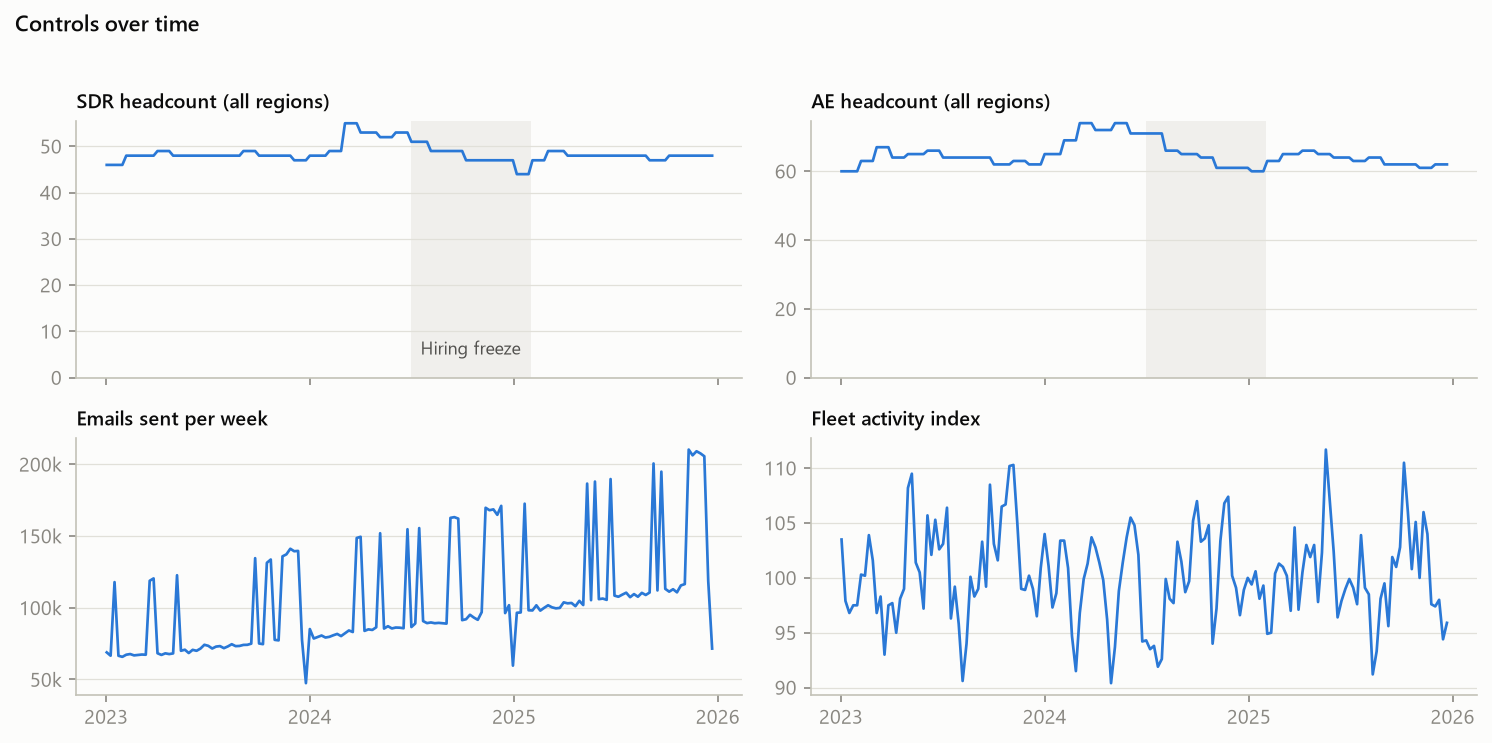
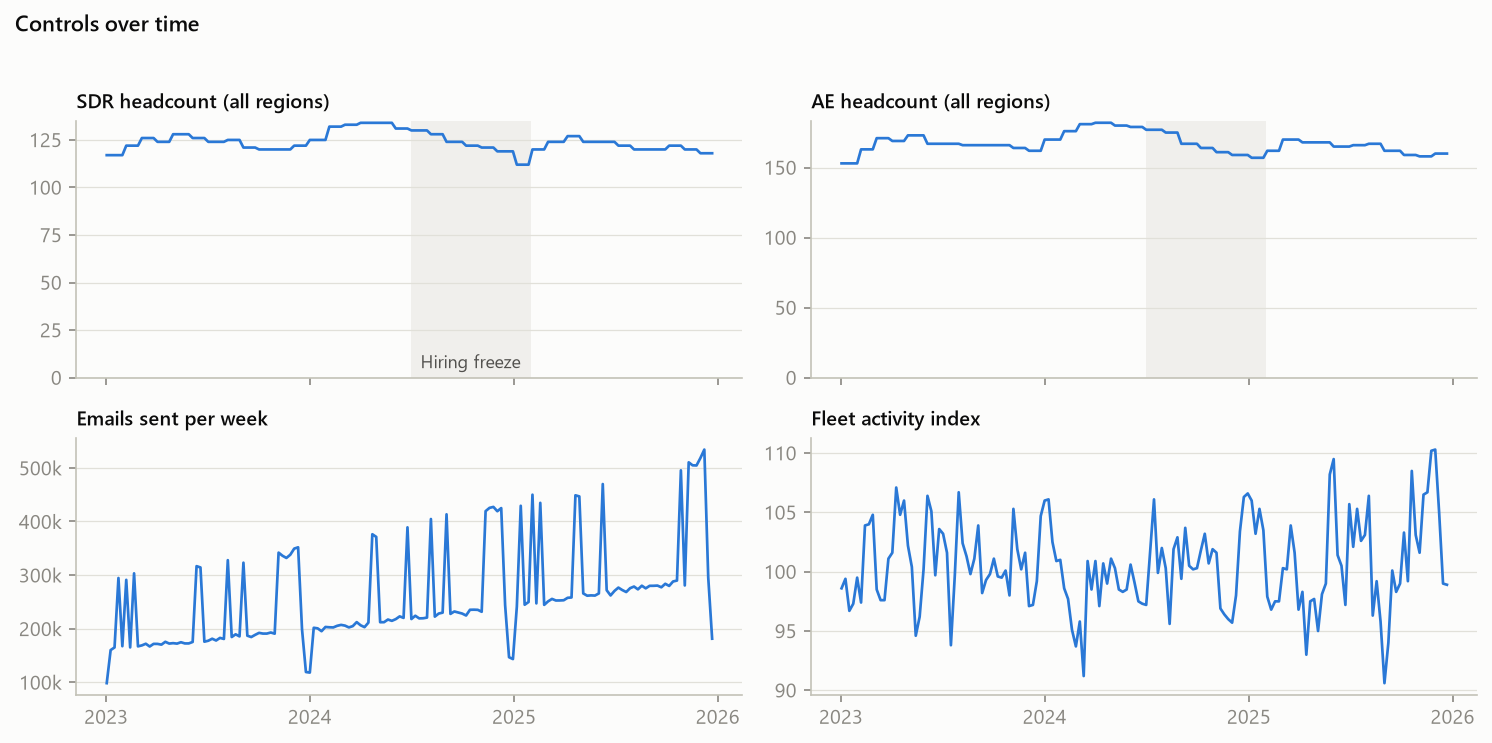
docs(eda): rerun on the 2.5x world

diff --git a/docs/eda/EDA.md b/docs/eda/EDA.md
@@ -12,13 +12,13 @@ Built by `python -m eda` from the dbt warehouse only: the golden tables plus a f
 | fct_channel_weekly is a full grid | 28,080 rows (expected 28,080) | Pass |
 | fct_funnel is a full grid | 40,560 rows (expected 40,560) | Pass |
 | fct_controls_weekly is a full grid | 3,120 rows (expected 3,120) | Pass |
-| Spend matches the platform exports | $45.6M in both; difference $0.00 | Pass |
+| Spend matches the platform exports | $113.9M in both; difference $0.00 | Pass |
 | No negative values; clicks never exceed impressions | 0 bad rows | Pass |
-| Every lead maps to a channel | 0 unmapped of 830,748; 19% recorded as direct | Pass |
+| Every lead maps to a channel | 0 unmapped of 2,051,367; 19% recorded as direct | Pass |
 | Lead to close (won deals) | median 14 days; 80% between 8 and 24 | Pass |
 | Censoring at the end of the window | 36% of opportunities from the last 4 weeks are still open; treat the final weeks of deals as incomplete | Note |
 | Promo and price calendar loaded | 4 entries | Pass |
-| Channels are not collinear | largest correlation 0.78 (Paid Search Non-Brand and LinkedIn); largest VIF 4.3 | Review |
+| Channels are not collinear | largest correlation 0.78 (Paid Search Non-Brand and LinkedIn); largest VIF 4.1 | Review |
 
 ## 2. Outcome and spend over time
 
@@ -26,9 +26,9 @@ Built by `python -m eda` from the dbt warehouse only: the golden tables plus a f
 
 | Year | Paid spend | Leads | Closed-won deals | New contract value | Spend per deal |
 |---|---|---|---|---|---|
-| 2023 | $13.5M | 231,293 | 10,517 | $28.5M | $1,284 |
-| 2024 | $14.8M | 242,658 | 11,008 | $31.5M | $1,349 |
-| 2025 | $17.2M | 244,894 | 9,713 | $29.0M | $1,774 |
+| 2023 | $33.8M | 570,252 | 26,637 | $72.0M | $1,267 |
+| 2024 | $37.1M | 597,483 | 27,658 | $78.1M | $1,342 |
+| 2025 | $43.1M | 604,780 | 24,886 | $73.8M | $1,731 |
 
 The last few weeks of 2025 are undercounted for deals, because those leads have not had time to close.
 
@@ -40,12 +40,12 @@ Expected pattern for Midwest service fleets: busy when the season turns (AC swit
 
 | Period | Expected | Leads index (100 = average week) | Holds |
 |---|---|---|---|
-| Holiday weeks (51, 52, 1) | well below 100 | 72 | Yes |
-| Thanksgiving week (47) | below 100 | 100 | Yes |
-| Winter after the holidays (weeks 3 to 9) | below 100 | 87 | Yes |
-| Spring switchover, AC on (weeks 19 to 25) | above 100 | 112 | Yes |
-| Summer lull into early fall (weeks 29 to 37) | below 100 | 93 | Yes |
-| Fall switchover, heat on (weeks 40 to 45) | above 100 | 117 | Yes |
+| Holiday weeks (51, 52, 1) | well below 100 | 73 | Yes |
+| Thanksgiving week (47) | below 100 | 98 | Yes |
+| Winter after the holidays (weeks 3 to 9) | below 100 | 88 | Yes |
+| Spring switchover, AC on (weeks 19 to 25) | above 100 | 111 | Yes |
+| Summer lull into early fall (weeks 29 to 37) | below 100 | 94 | Yes |
+| Fall switchover, heat on (weeks 40 to 45) | above 100 | 115 | Yes |
 
 6 of 6 expectations hold. The data matches the planning calendar. During the year-end promo (weeks 46 to 50), deals run +7% relative to leads, which is what a discount on annual plans should do.
 
@@ -104,7 +104,7 @@ Media plan changes logged between annual plans:
 
 ![Claims vs CRM](img/claims_vs_crm.png)
 
-Platforms claim 815,100 conversions in total; the CRM credits 410,887 leads to paid channels. Connected TV gets 0 last-touch leads because nobody clicks a TV ad. Neither source measures what a channel adds; that is the MMM's job.
+Platforms claim 1,995,724 conversions in total; the CRM credits 1,008,114 leads to paid channels. Connected TV gets 0 last-touch leads because nobody clicks a TV ad. Neither source measures what a channel adds; that is the MMM's job.
 
 ## 7. Controls
 
@@ -124,29 +124,29 @@ What the data shows about how each channel was bought and reported. These are ob
 *Performance channel.* Bids on every search for Fernhook, always on in every market. Spend follows how many people search the brand, and Meta, YouTube and CTV ads drive some of those searches.
 
 - **When it ran:** On every week of the window; used in 20 of 20 regions, with about 20 active in a typical on-week. Always on in every region it uses.
-- **Spend:** 2023: $2.4M, 2024: $2.5M, 2025: $2.6M. Highest in Q2, lowest in Q1; the biggest week was 1.4 times a typical on-week. The top 5 regions take 51% of its spend and hold 51% of target accounts.
+- **Spend:** 2023: $6.0M, 2024: $6.2M, 2025: $6.4M. Highest in Q2, lowest in Q1; the biggest week was 1.3 times a typical on-week. The top 5 regions take 51% of its spend and hold 51% of target accounts.
 - **Plan changes:** none between annual plans.
-- **Reporting:** the platform claims 127,363 conversions; the CRM credits 137,074 last-touch leads (0.9 times). Last-touch cost per lead: 2023: $51, 2024: $53, 2025: $58.
-- **What to watch in the MMM:** its weekly spend tracks total leads closely (correlation 0.92). Spend that follows demand can look like it causes demand, and Meta, YouTube and CTV create some of the searches it pays for. It never pauses, so no test separates what it adds from the demand it follows.
+- **Reporting:** the platform claims 315,639 conversions; the CRM credits 337,384 last-touch leads (0.9 times). Last-touch cost per lead: 2023: $52, 2024: $54, 2025: $59.
+- **What to watch in the MMM:** its weekly spend tracks total leads closely (correlation 0.91). Spend that follows demand can look like it causes demand, and Meta, YouTube and CTV create some of the searches it pays for. It never pauses, so no test separates what it adds from the demand it follows.
 
 ### Paid Search Non-Brand
 
 *Performance channel.* Always on in every market. Budgets lean into busy seasons and are re-split across markets every quarter.
 
 - **When it ran:** On every week of the window; used in 20 of 20 regions, with about 20 active in a typical on-week. Always on in every region it uses.
-- **Spend:** 2023: $3.4M, 2024: $5.2M, 2025: $8.4M. Highest in Q2, lowest in Q1; the biggest week was 2.2 times a typical on-week. The top 5 regions take 57% of its spend and hold 50% of target accounts.
+- **Spend:** 2023: $8.4M, 2024: $13.0M, 2025: $21.1M. Highest in Q2, lowest in Q1; the biggest week was 2.2 times a typical on-week. The top 5 regions take 57% of its spend and hold 50% of target accounts.
 - **Plan changes:** Apr 2023 +7% (Q1 review: CTV test expands, YouTube trimmed); Apr 2024 +12% (Attribution review: video and CTV show few last-touch leads); Aug 2024 +10% (Hiring freeze: brand programs trimmed, search protected); Feb 2025 +20% (New fiscal year: more for what last touch rewards).
-- **Reporting:** the platform claims 168,911 conversions; the CRM credits 115,411 last-touch leads (1.5 times). Last-touch cost per lead: 2023: $115, 2024: $133, 2025: $180.
-- **What to watch in the MMM:** always on and seasonal (correlation with total leads 0.40), so most of its signal comes from quarterly market re-splits and plan changes, not from week-to-week swings.
+- **Reporting:** the platform claims 415,847 conversions; the CRM credits 282,605 last-touch leads (1.5 times). Last-touch cost per lead: 2023: $117, 2024: $136, 2025: $184.
+- **What to watch in the MMM:** always on and seasonal (correlation with total leads 0.41), so most of its signal comes from quarterly market re-splits and plan changes, not from week-to-week swings.
 
 ### Meta
 
 *Brand channel.* Always-on prospecting that pushes before and into the spring and fall busy seasons and eases off in slow weeks. Each market's timing differs.
 
 - **When it ran:** On every week of the window; used in 20 of 20 regions, with about 20 active in a typical on-week. Always on in every region it uses.
-- **Spend:** 2023: $1.6M, 2024: $1.4M, 2025: $1.4M. Highest in Q4, lowest in Q1; the biggest week was 3.0 times a typical on-week. The top 5 regions take 47% of its spend and hold 47% of target accounts.
+- **Spend:** 2023: $4.0M, 2024: $3.6M, 2025: $3.4M. Highest in Q4, lowest in Q1; the biggest week was 3.0 times a typical on-week. The top 5 regions take 47% of its spend and hold 47% of target accounts.
 - **Plan changes:** Oct 2023 -12% (Q4 plan: more retargeting for year-end); Aug 2024 -17% (Hiring freeze: brand programs trimmed, search protected); Jun 2025 +23% (Meta retest after a new creative agency).
-- **Reporting:** the platform claims 219,287 conversions; the CRM credits 60,406 last-touch leads (3.6 times). Last-touch cost per lead: 2023: $75, 2024: $72, 2025: $71.
+- **Reporting:** the platform claims 533,541 conversions; the CRM credits 147,408 last-touch leads (3.6 times). Last-touch cost per lead: 2023: $76, 2024: $74, 2025: $73.
 - **What to watch in the MMM:** pushes land on the busy seasons, so spend rises when demand does. Each market's push comes on its own week and at its own size, and that is the contrast to learn from; the June 2025 retest adds a late step up.
 
 ### LinkedIn
@@ -154,9 +154,9 @@ What the data shows about how each channel was bought and reported. These are ob
 *Brand channel.* Lead-gen forms, always on. Market budgets are re-split every quarter.
 
 - **When it ran:** On every week of the window; used in 20 of 20 regions, with about 20 active in a typical on-week. Always on in every region it uses.
-- **Spend:** 2023: $1.2M, 2024: $0.8M, 2025: $0.5M. Highest in Q1, lowest in Q3; the biggest week was 1.8 times a typical on-week. The top 5 regions take 66% of its spend and hold 51% of target accounts.
+- **Spend:** 2023: $3.1M, 2024: $2.1M, 2025: $1.3M. Highest in Q1, lowest in Q3; the biggest week was 1.8 times a typical on-week. The top 5 regions take 66% of its spend and hold 51% of target accounts.
 - **Plan changes:** Aug 2024 -19% (Hiring freeze: brand programs trimmed, search protected); Feb 2025 -15% (New fiscal year: more for what last touch rewards).
-- **Reporting:** the platform claims 29,895 conversions; the CRM credits 14,380 last-touch leads (2.1 times). Last-touch cost per lead: 2023: $190, 2024: $173, 2025: $161.
+- **Reporting:** the platform claims 72,896 conversions; the CRM credits 35,026 last-touch leads (2.1 times). Last-touch cost per lead: 2023: $197, 2024: $177, 2025: $163.
 - **What to watch in the MMM:** always on with no pauses, so its signal comes from quarterly market re-splits and plan changes.
 
 ### YouTube
@@ -164,9 +164,9 @@ What the data shows about how each channel was bought and reported. These are ob
 *Brand channel.* National flights that run several weeks ahead of each busy season, with a low level in between. Each flight targets about three in four markets.
 
 - **When it ran:** On every week of the window; used in 20 of 20 regions, with about 20 active in a typical on-week. Always on in every region it uses.
-- **Spend:** 2023: $1.0M, 2024: $1.0M, 2025: $0.8M. Highest in Q3, lowest in Q4; the biggest week was 12.3 times a typical on-week. The top 5 regions take 50% of its spend and hold 50% of target accounts.
+- **Spend:** 2023: $2.5M, 2024: $2.4M, 2025: $2.1M. Highest in Q3, lowest in Q4; the biggest week was 12.3 times a typical on-week. The top 5 regions take 50% of its spend and hold 50% of target accounts.
 - **Plan changes:** Apr 2023 -22% (Q1 review: CTV test expands, YouTube trimmed); Apr 2024 -31% (Attribution review: video and CTV show few last-touch leads); Jun 2025 -14% (Meta retest after a new creative agency).
-- **Reporting:** the platform claims 74,242 conversions; the CRM credits 3,928 last-touch leads (18.9 times). Last-touch cost per lead: 2023: $726, 2024: $704, 2025: $708.
+- **Reporting:** the platform claims 182,895 conversions; the CRM credits 9,658 last-touch leads (18.9 times). Last-touch cost per lead: 2023: $726, 2024: $714, 2025: $736.
 - **What to watch in the MMM:** flights are national and run ahead of each busy season, so they line up with the run-up in demand; long carryover means effects can land in the busy weeks after a flight ends.
 
 ### Connected TV
@@ -174,9 +174,9 @@ What the data shows about how each channel was bought and reported. These are ob
 *Brand channel.* A market test in 8 markets. Each runs its own flight ahead of each busy season and goes dark between flights.
 
 - **When it ran:** On 103 of 156 weeks nationally; used in 8 of 20 regions, with about 4 active in a typical on-week. Within a region it typically runs 8 weeks on, then pauses for 15 weeks (40 regional pauses in all).
-- **Spend:** 2023: $1.3M, 2024: $1.0M, 2025: $0.6M. Highest in Q2, lowest in Q1; the biggest week was 2.8 times a typical on-week. The top 5 regions take 83% of its spend and hold 36% of target accounts.
+- **Spend:** 2023: $3.3M, 2024: $2.5M, 2025: $1.5M. Highest in Q2, lowest in Q1; the biggest week was 2.8 times a typical on-week. The top 5 regions take 83% of its spend and hold 36% of target accounts.
 - **Plan changes:** Apr 2023 +15% (Q1 review: CTV test expands, YouTube trimmed); Apr 2024 -34% (Attribution review: video and CTV show few last-touch leads).
-- **Reporting:** the platform claims 42,749 conversions; the CRM credits 0 last-touch leads (with no CRM credit to compare against). Last-touch cost per lead: not defined (no CRM credit).
+- **Reporting:** the platform claims 96,309 conversions; the CRM credits 0 last-touch leads (with no CRM credit to compare against). Last-touch cost per lead: not defined (no CRM credit).
 - **What to watch in the MMM:** runs in only 8 regions. The other 12 regions are a natural comparison group, and each test market times its own flights.
 
 ### Display Retargeting
@@ -184,9 +184,9 @@ What the data shows about how each channel was bought and reported. These are ob
 *Performance channel.* Always-on retargeting of past site visitors. Market budgets are re-split every quarter.
 
 - **When it ran:** On every week of the window; used in 20 of 20 regions, with about 20 active in a typical on-week. Always on in every region it uses.
-- **Spend:** 2023: $1.3M, 2024: $1.5M, 2025: $1.6M. Highest in Q1, lowest in Q2; the biggest week was 2.3 times a typical on-week. The top 5 regions take 55% of its spend and hold 47% of target accounts.
+- **Spend:** 2023: $3.3M, 2024: $3.6M, 2025: $4.0M. Highest in Q1, lowest in Q2; the biggest week was 2.3 times a typical on-week. The top 5 regions take 55% of its spend and hold 47% of target accounts.
 - **Plan changes:** Oct 2023 +18% (Q4 plan: more retargeting for year-end); Feb 2025 +13% (New fiscal year: more for what last touch rewards).
-- **Reporting:** the platform claims 46,405 conversions; the CRM credits 21,952 last-touch leads (2.1 times). Last-touch cost per lead: 2023: $179, 2024: $198, 2025: $216.
+- **Reporting:** the platform claims 116,332 conversions; the CRM credits 54,794 last-touch leads (2.1 times). Last-touch cost per lead: 2023: $177, 2024: $198, 2025: $221.
 - **What to watch in the MMM:** always on and retargets people who already visited, so it overlaps with demand from every other channel.
 
 ### Affiliates and Partners
@@ -194,9 +194,9 @@ What the data shows about how each channel was bought and reported. These are ob
 *Performance channel.* Placement and sponsor fees with local resellers and fleet consultants, set when each market's contracts renew every quarter. Commissions are booked as cost of sale.
 
 - **When it ran:** On every week of the window; used in 20 of 20 regions, with about 20 active in a typical on-week. Always on in every region it uses.
-- **Spend:** 2023: $0.6M, 2024: $0.7M, 2025: $0.6M. Highest in Q2, lowest in Q4; the biggest week was 1.4 times a typical on-week. The top 5 regions take 58% of its spend and hold 43% of target accounts.
+- **Spend:** 2023: $1.5M, 2024: $1.9M, 2025: $1.5M. Highest in Q2, lowest in Q4; the biggest week was 1.4 times a typical on-week. The top 5 regions take 58% of its spend and hold 43% of target accounts.
 - **Plan changes:** Apr 2024 +21% (Attribution review: video and CTV show few last-touch leads); Nov 2024 -24% (Two reseller contracts end).
-- **Reporting:** the platform claims 56,556 conversions; the CRM credits 24,804 last-touch leads (2.3 times). Last-touch cost per lead: 2023: $76, 2024: $85, 2025: $74.
+- **Reporting:** the platform claims 138,297 conversions; the CRM credits 60,698 last-touch leads (2.3 times). Last-touch cost per lead: 2023: $78, 2024: $86, 2025: $76.
 - **What to watch in the MMM:** fees change only when each market's contracts renew, so there are few distinct spend levels to learn from, and the top 5 regions take 58% of spend against 43% of accounts.
 
 ### Webinars
@@ -204,9 +204,9 @@ What the data shows about how each channel was bought and reported. These are ob
 *Events channel.* Regional live events. Cost lands in the week of each event.
 
 - **When it ran:** On 123 of 156 weeks nationally; used in 20 of 20 regions, with about 2 active in a typical on-week. Spend comes in single weeks; a region typically goes 8 weeks between them.
-- **Spend:** 2023: $0.7M, 2024: $0.7M, 2025: $0.8M. Highest in Q1, lowest in Q4; the biggest week was 3.1 times a typical on-week. The top 5 regions take 56% of its spend and hold 51% of target accounts.
+- **Spend:** 2023: $1.8M, 2024: $1.8M, 2025: $1.9M. Highest in Q1, lowest in Q4; the biggest week was 3.1 times a typical on-week. The top 5 regions take 56% of its spend and hold 51% of target accounts.
 - **Plan changes:** none between annual plans.
-- **Reporting:** the platform claims 49,692 conversions; the CRM credits 32,932 last-touch leads (1.5 times). Last-touch cost per lead: 2023: $68, 2024: $66, 2025: $64.
+- **Reporting:** the platform claims 123,967 conversions; the CRM credits 80,541 last-touch leads (1.5 times). Last-touch cost per lead: 2023: $70, 2024: $67, 2025: $65.
 - **What to watch in the MMM:** spend lands in one region and one week at a time, a strong natural experiment.
 
 ## 9. Strongest spend correlations
@@ -214,9 +214,9 @@ What the data shows about how each channel was bought and reported. These are ob
 | Channel A | Channel B | Correlation |
 |---|---|---|
 | Paid Search Non-Brand | LinkedIn | -0.78 |
-| Paid Search Brand | Connected TV | 0.61 |
-| Paid Search Brand | Meta | 0.56 |
+| Paid Search Brand | Connected TV | 0.58 |
+| Paid Search Brand | Meta | 0.53 |
 | Meta | Connected TV | 0.52 |
 | Paid Search Non-Brand | Display Retargeting | 0.40 |
 
-Variance inflation (VIF) of national weekly spend: Paid Search Non-Brand 4.3, Paid Search Brand 3.3, LinkedIn 3.1, Connected TV 2.3, Meta 1.9, Display Retargeting 1.3, YouTube 1.1, Affiliates and Partners 1.1, Webinars 1.1.
+Variance inflation (VIF) of national weekly spend: Paid Search Non-Brand 4.1, LinkedIn 3.1, Paid Search Brand 3.0, Connected TV 2.3, Meta 1.8, Display Retargeting 1.3, YouTube 1.1, Affiliates and Partners 1.1, Webinars 1.1.
